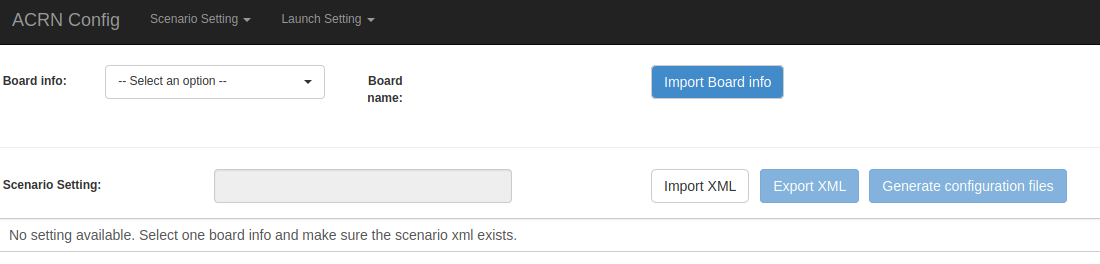
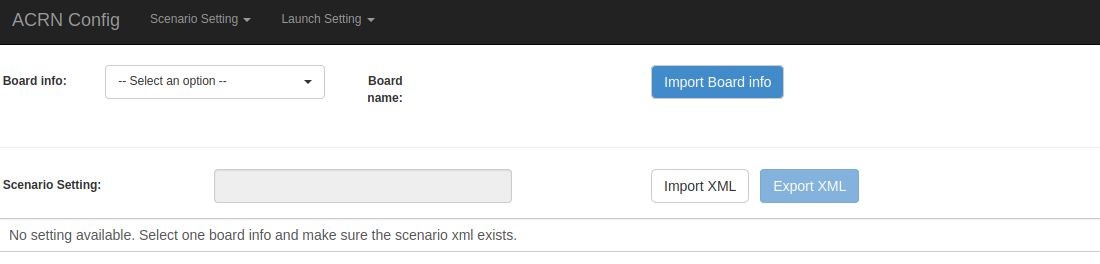
doc: update the ROScube-I GSG with ACRN v2.5
This patch updates the ROScube-I GSG so that developers could use ROScube-I
with ACRN v2.5.

Changed region(s): [[0.7727, 0.6364, 0.9891, 0.7879]]

diff --git a/doc/getting-started/roscube/roscube-gsg.rst b/doc/getting-started/roscube/roscube-gsg.rst
@@ -12,8 +12,8 @@ Verified Version
 
 - Ubuntu version: **18.04**
 - GCC version: **7.5.0**
-- ACRN-hypervisor branch: **v2.1**
-- ACRN-Kernel (Service VM kernel): **v2.1**
+- ACRN-hypervisor branch: **v2.5**
+- ACRN-Kernel (Service VM kernel): **v2.5**
 - RT kernel for Ubuntu User VM OS: **Linux kernel 4.19.59 with Xenomai 3.1**
 - HW: `ROScube-I`_
 
@@ -93,18 +93,50 @@ Set Up Environment
    .. code-block:: bash
 
      sudo apt update
-     sudo apt install -y gcc git make gnu-efi libssl-dev libpciaccess-dev \
-       uuid-dev libsystemd-dev libevent-dev libxml2-dev libxml2-utils \
-       libusb-1.0-0-dev python3 python3-pip libblkid-dev \
-       e2fslibs-dev pkg-config libnuma-dev liblz4-tool flex bison
-     sudo pip3 install kconfiglib
+     sudo apt install -y gcc \
+         git \
+         make \
+         vim \
+         libssl-dev \
+         libpciaccess-dev \
+         uuid-dev \
+         libsystemd-dev \
+         libevent-dev \
+         libxml2-dev \
+         libxml2-utils \
+         libusb-1.0-0-dev \
+         python3 \
+         python3-pip \
+         libblkid-dev \
+         e2fslibs-dev \
+         pkg-config \
+         libnuma-dev \
+         liblz4-tool \
+         flex \
+         bison \
+         xsltproc \
+         clang-format \
+         bc
+     sudo pip3 install lxml xmlschema defusedxml
+
+#. Install the iASL compiler/disassembler used for advanced power management,
+   device discovery, and configuration (ACPI) within the host OS:
+
+   .. code-block:: bash
+
+     cd /tmp
+     wget https://acpica.org/sites/acpica/files/acpica-unix-20210105.tar.gz
+     tar zxvf acpica-unix-20210105.tar.gz
+     cd acpica-unix-20210105
+     make clean && make iasl
+     sudo cp ./generate/unix/bin/iasl /usr/sbin/
 
 #. Get code from GitHub.
 
    .. code-block:: bash
 
      mkdir ~/acrn && cd ~/acrn
-     git clone https://github.com/projectacrn/acrn-hypervisor -b release_2.1
+     git clone https://github.com/projectacrn/acrn-hypervisor -b release_2.5
      cd acrn-hypervisor
 
 Configure Hypervisor
@@ -115,16 +147,16 @@ Configure Hypervisor
    .. code-block:: bash
 
      sudo apt install -y cpuid msr-tools
-     cd ~/acrn/acrn-hypervisor/misc/acrn-config/target/
-     sudo python3 board_parser.py ros-cube-cfl
-     cp ~/acrn/acrn-hypervisor/misc/acrn-config/target/out/ros-cube-cfl.xml \
-       ~/acrn/acrn-hypervisor/misc/acrn-config/xmls/board-xmls/
+     cd ~/acrn/acrn-hypervisor/misc/config_tools/board_inspector/
+     sudo python3 cli.py ros-cube-cfl
+     cp ~/acrn/acrn-hypervisor/misc/config_tools/board_inspector/ros-cube-cfl.xml \
+       ~/acrn/acrn-hypervisor/misc/config_tools/data/
 
 #. Run ACRN configuration app and it will open a browser page.
 
    .. code-block:: bash
 
-     cd ~/acrn/acrn-hypervisor/misc/acrn-config/config_app
+     cd ~/acrn/acrn-hypervisor/misc/config_tools/config_app
      sudo pip3 install -r requirements
      python3 app.py
 
@@ -142,11 +174,17 @@ Configure Hypervisor
 
    .. figure:: images/rqi-acrn-config-scenario-settings.png
 
+#. Settings "Features": "RDT_ENABLED" option must be "n".
+
+   .. figure:: images/rqi-acrn-config-features-settings.png
+
 #. Settings "HV": You can ignore this if your RAM is <= 16GB.
 
    .. figure:: images/rqi-acrn-config-hv-settings.png
 
 #. Settings "VM0": Select the hard disk currently used.
+   If you system need some special bootargs (like "video=eDP-1:d"),
+   you can add it below.
 
    .. figure:: images/rqi-acrn-config-vm0-settings.png
 
@@ -169,12 +207,6 @@ Configure Hypervisor
 
    .. figure:: images/rqi-acrn-config-export-xml-submit.png
 
-#. Generate configuration files.
-
-   .. figure:: images/rqi-acrn-config-generate-config.png
-
-   .. figure:: images/rqi-acrn-config-generate-config-submit.png
-
 #. Close the browser and stop the process (Ctrl+C).
 
 #. Optional: Patch the hypervisor if you want to passthrough GPIO to VM.
@@ -190,9 +222,11 @@ Configure Hypervisor
    .. code-block:: bash
 
      cd ~/acrn/acrn-hypervisor
+     cp misc/config_tools/data/ros-cube-cfl.xml \
+        misc/config_tools/data/ros-cube-cfl/ros-cube-cfl.xml
      make all \
-        BOARD_FILE=misc/acrn-config/xmls/board-xmls/ros-cube-cfl.xml \
-        SCENARIO_FILE=misc/acrn-config/xmls/config-xmls/ros-cube-cfl/user_defined/industry_ROS2SystemOS.xml \
+        BOARD_FILE=misc/config_tools/data/ros-cube-cfl/ros-cube-cfl.xml \
+        SCENARIO_FILE=misc/config_tools/data/ros-cube-cfl/user_defined/industry_ROS2SystemOS.xml \
         RELEASE=0
 
 #. Install hypervisor
@@ -216,7 +250,7 @@ Build Service VM Kernel
    .. code-block:: bash
 
      cd ~/acrn
-     git clone https://github.com/projectacrn/acrn-kernel -b release_2.1
+     git clone https://github.com/projectacrn/acrn-kernel -b release_2.5
      cd acrn-kernel
 
 #. Restore default ACRN configuration.
@@ -371,7 +405,7 @@ Create User VM Image
      sudo apt install git build-essential bison flex libelf-dev libssl-dev liblz4-tool
 
      # Clone code
-     git clone -b release_2.1 https://github.com/projectacrn/acrn-kernel
+     git clone -b release_2.5 https://github.com/projectacrn/acrn-kernel
      cd acrn-kernel
 
      # Set up kernel config
@@ -405,19 +439,6 @@ Run User VM
 Now back to the native machine to set up the environment for launching
 the User VM.
 
-#. Manually fetch and install the ``iasl`` binary to ``/usr/bin`` (where
-   ACRN expects it) with a newer version of the
-   than what's included with Ubuntu 18.04:
-
-   .. code-block:: bash
-
-     cd /tmp
-     wget https://acpica.org/sites/acpica/files/acpica-unix-20210105.tar.gz
-     tar zxvf acpica-unix-20210105.tar.gz
-     cd acpica-unix-20210105
-     make clean && make iasl
-     sudo cp ./generate/unix/bin/iasl /usr/sbin/
-
 #. Convert KVM image file format.
 
    .. code-block:: bash
@@ -433,10 +454,15 @@ the User VM.
      wget https://raw.githubusercontent.com/Adlink-ROS/ROScube_ACRN_guide/v2.1/scripts/launch_ubuntu_uos.sh
      chmod +x ./launch_ubuntu_uos.sh
 
+   .. note:: In different models of machines, you may need to modify this
+             script to set which device you want to passthrough and the
+             memory size of the virtual machine.
+
 #. Set up network and reboot to take effect.
 
    .. code-block:: bash
 
+     sudo apt install net-tools wget
      mkdir -p ~/acrn/tools/
      cd ~/acrn/tools
      wget https://raw.githubusercontent.com/Adlink-ROS/ROScube_ACRN_guide/v2.1/scripts/acrn_bridge.sh
@@ -572,6 +598,10 @@ launching the real-time VM.
 
      wget https://raw.githubusercontent.com/Adlink-ROS/ROScube_ACRN_guide/v2.1/scripts/launch_ubuntu_rtos.sh
      chmod +x ./launch_ubuntu_rtos.sh
+
+   .. note:: In different models of machines, you may need to modify this
+             script to set which device you want to passthrough and the
+             memory size of the virtual machine.
 
 #. **Reboot to ACRN kernel** and now you can launch the VM.
 
